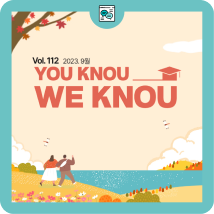
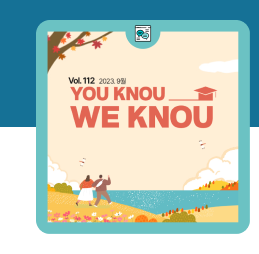
modified: html layout

diff --git a/09/index.html b/09/index.html
@@ -14,78 +14,63 @@
     <table cellpadding="0" cellspacing="0" class="knouTable" style="width:750px; padding:0; margin:0; border: 1px solid red;">
         <!-- 메인 키비주얼 이미지 -->
         <tr style="position: relative; display: flex; align-items: flex-end; justify-content: center;">
-            <!-- 키비주얼 이미지 -->
-            <td style="height: 486px;">
-                <a href="#" rel="noopener noreferrer" style="display: block;">
-                    <img src="https://s-i-k.github.io/knou/09/img/vol_main_visual.png" alt="">
+            <td style="display:flex;">
+                <a href="#" style="display:flex;">
+                    <img src="./img/vol_main_visual.png" alt="">
                 </a>
             </td>
-            <!-- SNS 리스트 -->
-            <td style="position: absolute; transform: translateY(50%); z-index: 2;">
-                <table>
-                    <tr>
-                        <!-- insta -->
-                        <td style="display: inline-block; margin-right: 40px;">
-                            <a href="#">
-                                <img src="https://s-i-k.github.io/knou/09/img/sns-img01.png" alt="">
-                            </a>
-                        </td>
-                        <!-- facebook -->
-                        <td style="display: inline-block; margin-right: 40px;">
-                            <a href="#">
-                                <img src="https://s-i-k.github.io/knou/09/img/sns-img02.png" alt="">
-                            </a>
-                        </td>
-                        <!-- home -->
-                        <td style="display: inline-block; margin-right: 40px;">
-                            <a href="#">
-                                <img src="https://s-i-k.github.io/knou/09/img/sns-img03.png" alt="">
-                            </a>
-                        </td>
-                        <!-- youtube -->
-                        <td style="display: inline-block; margin-right: 40px;">
-                            <a href="#">
-                                <img src="https://s-i-k.github.io/knou/09/img/sns-img04.png" alt="">
-                            </a>
-                        </td>
-                        <!-- blog -->
-                        <td style="display: inline-block;">
-                            <a href="#">
-                                <img src="https://s-i-k.github.io/knou/09/img/sns-img05.png" alt="">
-                            </a>
-                        </td>
-                    </tr>
-                </table>
+        </tr>
+        <tr style="display:flex;">
+            <td style="display:flex;">
+                <a href="#" style="display:flex;">
+                    <img src="./img/sns-img01.png" alt="">
+                </a>
+            </td>
+            <td style="display:flex;">
+                <a href="#" style="display:flex;">
+                    <img src="./img/sns-img02.png" alt="">
+                </a>
+            </td>
+            <td style="display:flex;">
+                <a href="#" style="display:flex;">
+                    <img src="./img/sns-img03.png" alt="">
+                </a>
+            </td>
+            <td style="display:flex;">
+                <a href="#" style="display:flex;">
+                    <img src="./img/sns-img04.png" alt="">
+                </a>
+            </td>
+            <td style="display:flex;">
+                <a href="#" style="display:flex;">
+                    <img src="./img/sns-img05.png" alt="">
+                </a>
             </td>
         </tr>
 
         <!-- 지난호 바로가기 -->
-        <tr style="height: 250px; background: #157196; display: flex; flex-direction: column; align-items: center; justify-content: center; position: relative; margin-bottom: 167px;">
-            <td style="transform: translateY(-42px);">
-                <a href="#" style="display: block; padding: 10px 65px; border: 1px solid #fff; font-size: 16px; font-weight: bold; color: #fff; text-decoration: none; font-family: var(--kr-font); letter-spacing: -.8px;">
-                    지난호 바로가기 >
+        <tr style="display:flex;">
+            <td style="display:flex;">
+                <a href="#"  style="display:flex;">
+                    <img src="./img/prev-newsletter.png" alt="">
                 </a>
             </td>
-            <td style="position: absolute; bottom: 0; transform: translateY(50%)">
-                <table cellpadding="0" cellspacing="0">
-                    <tr style="display: flex;">
-                        <td style="display: flex; margin-right: 18px;">
-                            <a href="#" style="display: flex;">
-                                <img src="https://s-i-k.github.io/knou/09/img/prev-newsletter01.png" alt="">
-                            </a>
-                        </td>
-                        <td style="display: flex; margin-right: 18px;">
-                            <a href="#" style="display: flex;">
-                                <img src="https://s-i-k.github.io/knou/09/img/prev-newsletter02.png" alt="">
-                            </a>
-                        </td>
-                        <td style="display: flex;">
-                            <a href="#" style="display: flex;">
-                                <img src="https://s-i-k.github.io/knou/09/img/prev-newsletter03.png" alt="">
-                            </a>
-                        </td>
-                    </tr>
-                </table>
+        </tr>
+        <tr style="display:flex;">
+            <td style="display:flex;">
+                <a href="#"  style="display:flex;">
+                    <img src="./img/prev-newsletter01.png" alt="">
+                </a>
+            </td>
+            <td style="display:flex;">
+                <a href="#"  style="display:flex;">
+                    <img src="./img/prev-newsletter02.png" alt="">
+                </a>
+            </td>
+            <td style="display:flex;">
+                <a href="#" style="display: flex;">
+                    <img src="./img/prev-newsletter03.png" alt="">
+                </a>
             </td>
         </tr>
 
